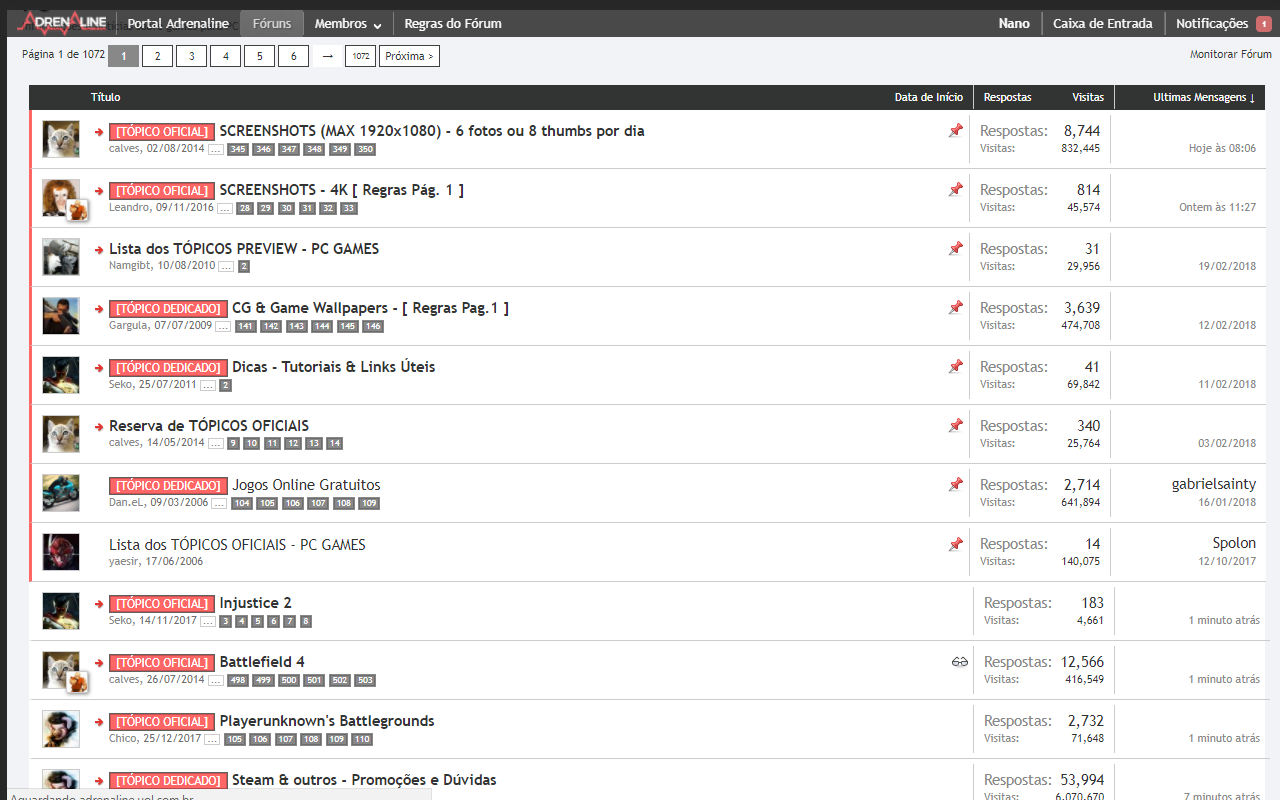
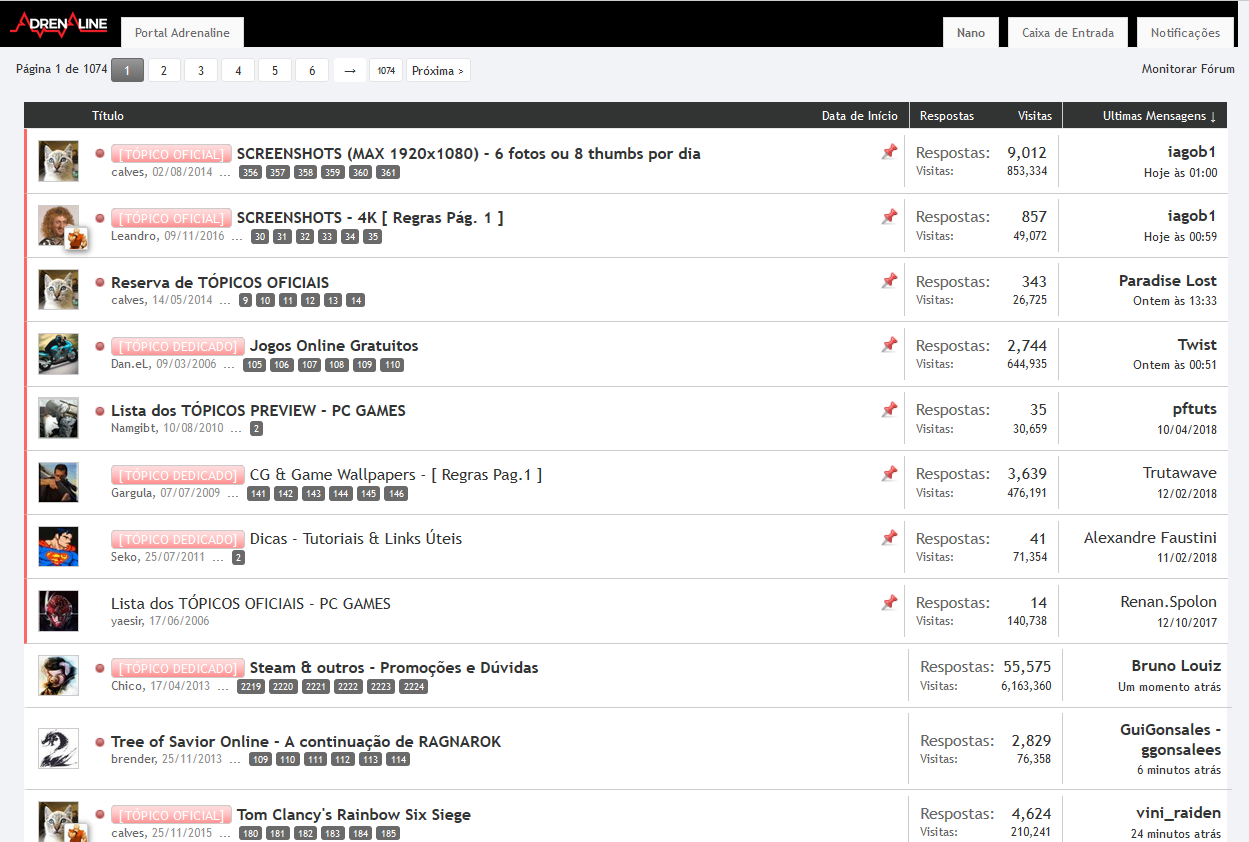
Update Theme for Light original theme

Changed region(s): [[0.0, 0.0, 1.0, 1.0], [0.9055, 0.25, 0.9992, 0.4375]]

diff --git a/src/css/light.css b/src/css/light.css
@@ -13,6 +13,9 @@
   */
 
 /* Geral */
+html {
+    background: #f1f3f6;
+}
 .body,
 body {
     color: #323333;
@@ -30,8 +33,22 @@ a.button {
 }
 
 /* Header */
+.navTabs .navTab.selected .tabLinks,
+.selectedTabLinks .tabLinks {
+    border-radius: 0;
+    background: #fafafa;
+}
+.navTabs .navLink {
+    background: #fafafa;
+    border-radius: 0;
+    border-bottom: 0;
+}
+#navigation.pageWidth {
+    margin: 0;
+}
 #headerMover #header ~ div {
     background: #f1f3f6 !important; /* To overwrite inline style */
+    margin-top: 15px !important; /* To overwrite inline style */
 }
 
 #headerMover {
@@ -49,7 +66,7 @@ a.button {
 .Menu .secondaryContent.menuColumns .blockLinksList a,
 .Menu .sectionFooter a,
 .Menu .secondaryContent a {
-    color: #fff;
+    color: #323333;
 }
 .Menu .menuHeader .muted {
     color: #ccc;
@@ -61,6 +78,7 @@ a.button {
     height: 37px;
     box-shadow: none;
     border: 1px solid #ccc;
+    border-radius: 0;
 }
 
 .breadcrumb .crumbs {
@@ -101,6 +119,7 @@ a.button {
     background: #feffff;
     box-shadow: none;
     border: 1px solid #ccc;
+    border-radius: 0;
 }
 
 .sectionMain {
@@ -129,9 +148,10 @@ a.callToAction span {
     box-shadow: none;
     height: 30px;
     padding: 2px 10px;
-    background-color: #f2f2f2;
+    background: #f2f2f2;
     border: 1px solid #ccc;
     color: #323333;
+    border-radius: 0;
 }
 .button.primary {
     border: 1px solid rgb(173, 39, 33);
@@ -158,6 +178,7 @@ a.callToAction span {
     padding: 1px;
     background-color: #ccc;
     border: 0;
+    border-radius: 0;
 }
 
 .pairsJustified dd,
@@ -204,6 +225,15 @@ font-weight: bold;
     box-shadow: none;
     border: 1px solid #ccc;
     border-bottom: 4px solid #323333;
+    padding: 0;
+    border-radius: 0;
+}
+.nodeList .categoryStrip .nodeTitle {
+    padding-left: 5px;
+    padding-right: 5px;
+}
+.nodeList .categoryStrip .nodeTitle a {
+    color: #f2f2f2;
 }
 
 .nodeList .node span.brc,
@@ -251,6 +281,7 @@ font-weight: bold;
 
 .categoryStrip .categoryToggle {
      background-color: #fff;
+     margin-right: 5px;
 }
 
  /* Forum Item */
@@ -348,6 +379,7 @@ a.PageNavNext {
     background: #fff;
     box-shadow: none;
     border: 1px solid #ccc;
+    border-radius: 0;
 }
 
 .messageUserBlock div.avatarHolder .avatar {
@@ -356,6 +388,8 @@ a.PageNavNext {
 
 .messageUserBlock div.avatarHolder .onlineMarker {
     left: 14px;
+    top: 2px;
+    border-radius: 0;
 }
 
 .messageUserBlock .userTitle {
@@ -383,6 +417,7 @@ a.PageNavNext {
     background-color: #fff;
     box-shadow: none;
     border: 1px solid #ccc;
+    border-radius: 0;
 }
 
 .message .messageContent .messageText {
@@ -397,25 +432,29 @@ a.PageNavNext {
 .message .newIndicator {
     top: 1px;
     right: 1px;
+    background-image: none;
 }
 
 .bbCodeBlock {
     box-shadow: none;
     border: 1px solid #ccc;
     background-color: #f2f2f2;
+    border-radius: 0;
 }
 .bbCodeBlock .type {
-    color: inherit;
     font-weight: bold;
+    border-radius: 0;
 }
 
 .bbCodeQuote .quoteContainer .quoteExpand {
     background-image: linear-gradient(rgba(78, 78, 78, 0) 0%, rgb(78, 78, 78) 80%);
-    color: #fff;    
+    color: #fff;
+    border-radius: 0;
 }
 
 .bbCodeQuote .quoteContainer {
     background-color: #fff;
+    border-radius: 0;
 }
 
 .messageSimple .messageContent article,
@@ -543,7 +582,7 @@ a.PageNavNext {
 
 /* Spoiler Tag */
 .bbCodeSpoilerButton {
-    height: 20px;
+    background: #fafafa;
 }
 
 .hasJs .bbCodeSpoilerText {
@@ -552,4 +591,14 @@ a.PageNavNext {
 
 .dataTable tr.dataRow td {
     border-top: 0;
+}
+
+.footer a,
+.footer a:visited,
+.footer .pageContent,
+.footerLegal .pageContent,
+.footerLegal dt,
+.footerLegal dd,
+#copyright {
+    color: #323333 !important;
 }

diff --git a/README.md b/README.md
@@ -12,19 +12,23 @@ Extensão para o Chrome e Firefox que habilita uma versão alternativa do tema L
 - Essa não é uma extensão oficial do Adrenaline, então não adianta reclamar lá.  
 Problemas deverão ser reportados nesse repositório, veja mais informações no final deste arquivo;
 
-- O forum carrega no tema escuro, porém faz uma animação de "fade" pro tema claro.  
+- O forum carrega no tema escolhido no Adrenaline, porém faz uma animação de "fade" pro tema claro modificado.  
 Isso é esperado porque a extensão se aplica assim que o site carrega.
 
 - Cores claras em fundo claro  
 Se alguém forçar o uso de alguma cor, seja no tópico, seja na assinatura, eu não tenho como trocar. Até tenho, mas não vale o trabalho.
-Então tópicos com texto claro  ou assinaturas com o texto claro não vão ser legíveis (já não eram no tema claro originalmente antes).
+Então tópicos com texto claro ou assinaturas com o texto claro não vão ser legíveis (já não são no tema claro originalmente).
 
 - Eu fiz essa extensão pro meu próprio uso  
 Mas vi alguns usuários pedindo a volta do tema Light no fórum, então resolvi postar nas lojas.
 
 ## Nem tudo foi alterado
-- O header/footer, por exemplo, se manterão escuros
-- Caixa de texto/resposta não dá pra alterar
+A ideia é ter um tema mais simples, mas que seja mais fácil de manter.
+
+# Alterações principais
+- Remoção das bordas arredondadas
+- Remoção dos degradês
+- Alteração do fundo pra ter menos destaque, dando mais destaque no conteúdo em si
 
 ## Como instalar?
 
@@ -49,13 +53,10 @@ Se ela aparecer abaixo, é que está funcionando.
 Nota: No Firefox, toda vez que você fecha o navegador, a extensão é desabilitada. No Chrome, ele lhe avisa quando inciar se você quer ou não manter a extensão habilitada.
 
 ## Bugs conhecidos:
-- As colunas da lista de forum tem a cor vermelha no hover
-- Algumas tags de tópico são difíceis de ler por causa das cores
-- O ícone de rss é quase invisível por usar o pack de ícones do tema escuro
 
 ## Achei um bug, o que faço?
 Primeiro, veja se ele não ocorre também no tema escuro. Se acontecer, [reporte ele no fórum do Adrenaline](https://adrenaline.uol.com.br/forum/threads/bugs-do-forum-em-geral-relatem-aqui.363386/).
 Se não acontecer, pode ser bug dessa extensão.
 Reporte na aba Issues, com a versão da extensão, seu navegador, seu sistema operacional, printscreen e link para o tópico.
 
-## ! Essa extensão poderá ser removida caso o tema light volte.
+## ! Essa extensão poderá ser removida caso o time do Adrenaline implemente as alterações que estão aqui.
